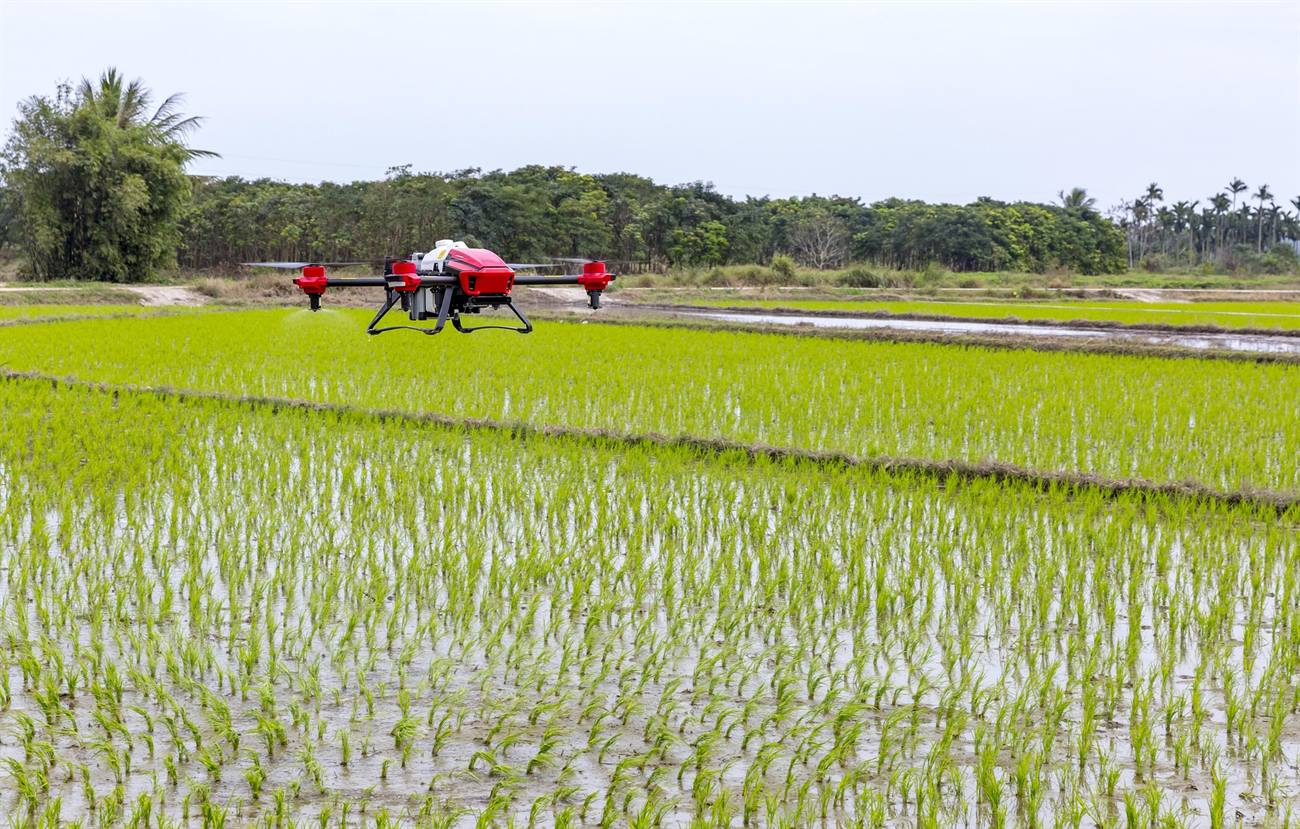
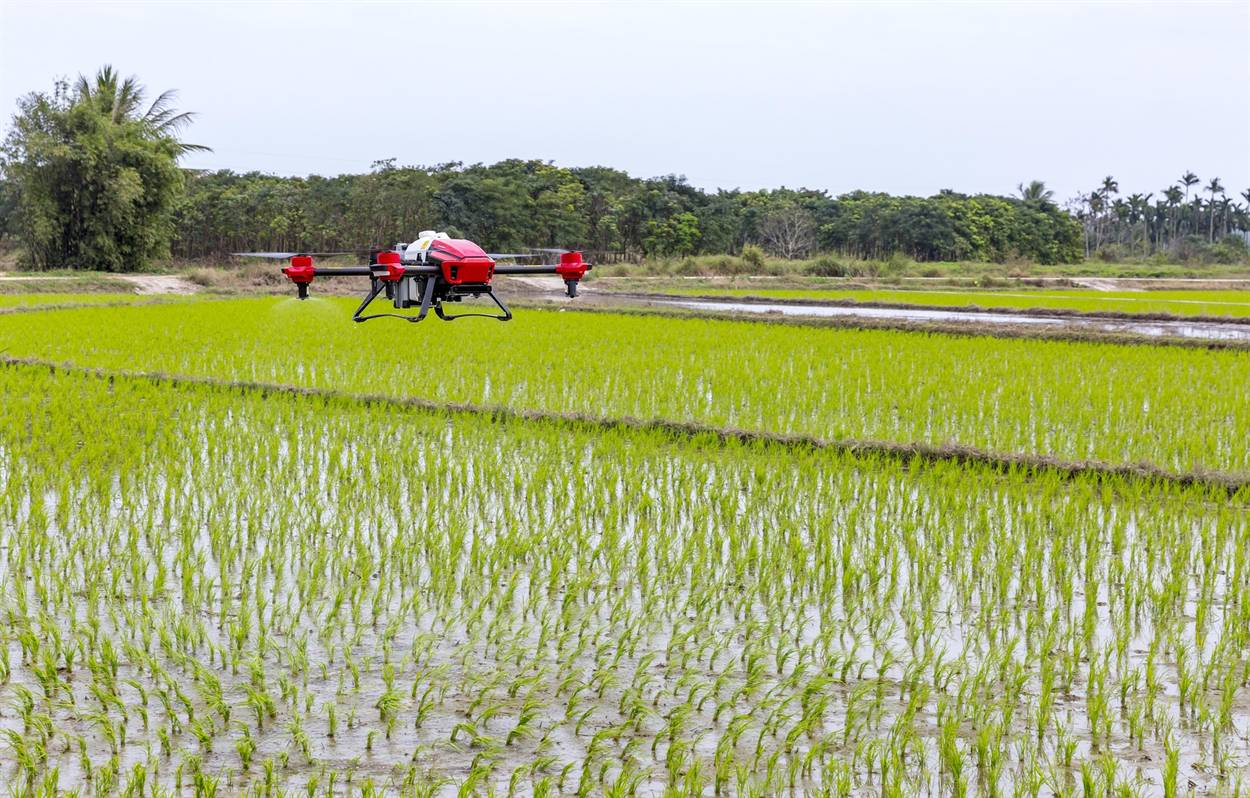
Give the helicopter and fire engine sections their own subject
Leo supplied a helicopter photo and a fire engine photo. Both now sit in the
section they belong to, and the two images they displaced moved rather than
being dropped:

  hero                              smouldering ground   unchanged
  Twenty hectares to four hundred   night fire front     moved here
  Fire engine                       fire engine          new
  Helicopter                        rescue helicopter    new
  Drone                             spraying drone       unchanged
  The gap                           crew at the fire     unchanged
  What this means                   firefighter on foot  moved here

The two that moved got new captions that fit where they now are. The night
fire front closes the twenty-to-four-hundred point: by the time it looks like
that, the decisions that mattered were made hours ago. The firefighter on foot
closes the article on "the same people, doing the same job", which is the last
line of the piece.

Both new photographs are captioned for what they actually show, because both
are wrong in a way a fire officer would notice in a second. The helicopter is a
Czech Air Force PZL W-3 on a winch rescue exercise, tagged by the photographer
as a rescue demo, and it is not carrying water. The fire engine is American
apparatus, a Pierce pumper and a Ford ambulance on a US road, not a German
appliance. Saying so costs nothing. Being caught not saying so would cost the
whole article.
[…]

diff --git a/public/blog/helicopter-air-tanker-fire-engine-drone.html b/public/blog/helicopter-air-tanker-fire-engine-drone.html
@@ -163,7 +163,7 @@
     <p class="byline">18 August 2026 · Averium Dynamics UG, Berlin</p>
 
     <figure>
-      <img src="/blog/img/smouldering-ground.jpg" width="1400" height="888"
+      <img src="/blog/img/smouldering-ground.jpg" width="1300" height="824"
            alt="Smoke rising from burnt ground in a cleared conifer forest, with stumps and
                 branches in the foreground."
            decoding="async"/>
@@ -181,6 +181,17 @@
     <p>As far as we can tell nobody did anything wrong. Hundreds of people worked on it. The
       German air force flew two heavy helicopters over it and dropped around 1.58 million litres
       in three days.<sup>[3]</sup> It still went from 20 to 400.</p>
+
+    <figure>
+      <img src="/blog/img/fire-front-night.jpg" width="1600" height="1067"
+           alt="A fire burning along a forested ridge at dusk, its light reflected in the water
+                in the foreground."
+           loading="lazy" decoding="async"/>
+      <figcaption>By the time a fire looks like this, the decisions that mattered were made
+        hours ago.
+        <span class="note">Stock photograph. Not the Müritz fire, and not our own image.</span>
+      </figcaption>
+    </figure>
 
     <p>That pair of numbers is the whole argument. The fire was small once. What happens while
       it is still small decides how it ends. Everything after that is clearing up.</p>
@@ -211,12 +222,12 @@
     <h2>Fire engine</h2>
 
     <figure>
-      <img src="/blog/img/crew-on-the-ground.jpg" width="1400" height="933"
-           alt="A firefighter in helmet and protective clothing beating out flames in a burning
-                field, with smoke behind."
+      <img src="/blog/img/fire-engine.jpg" width="1250" height="938"
+           alt="A fire engine and an ambulance driving along a rural road."
            loading="lazy" decoding="async"/>
-      <figcaption>Most of the work is still done at walking pace, by hand.
-        <span class="note">Stock photograph. Not the Müritz fire, and not our own image.</span>
+      <figcaption>Everything about this works, right up to the point where the road stops.
+        <span class="note">Stock photograph. American apparatus, not a German appliance, and
+          not ours.</span>
       </figcaption>
     </figure>
 
@@ -242,12 +253,13 @@
     <h2>Helicopter</h2>
 
     <figure>
-      <img src="/blog/img/fire-front-night.jpg" width="1600" height="1067"
-           alt="A fire burning along a forested ridge at dusk, its light reflected in the water
-                in the foreground."
+      <img src="/blog/img/helicopter.jpg" width="1250" height="833"
+           alt="A red and white rescue helicopter hovering low over a meadow with forest and
+                cliffs behind, two crew on the ground below the winch line."
            loading="lazy" decoding="async"/>
-      <figcaption>Once it looks like this, the first hour is long gone.
-        <span class="note">Stock photograph. Not the Müritz fire, and not our own image.</span>
+      <figcaption>Minutes, over ground a vehicle would need hours to reach.
+        <span class="note">Stock photograph. A Czech Air Force rescue helicopter on a winch
+          exercise, not a water drop, and not the Müritz fire.</span>
       </figcaption>
     </figure>
 
@@ -277,7 +289,7 @@
     <h2>Drone</h2>
 
     <figure>
-      <img src="/blog/img/drone-in-flight.jpg" width="1300" height="829"
+      <img src="/blog/img/drone-in-flight.jpg" width="1250" height="798"
            alt="A large multi-rotor drone with a tank and spray booms hovering low over a
                 flooded field."
            loading="lazy" decoding="async"/>
@@ -360,6 +372,16 @@
       in the first few minutes, because there is no road or because nobody is allowed. After
       that it is the same job it has always been, done by the same people.</p>
 
+    <figure>
+      <img src="/blog/img/crew-on-the-ground.jpg" width="1400" height="933"
+           alt="A firefighter in helmet and protective clothing beating out flames in a burning
+                field, with smoke behind."
+           loading="lazy" decoding="async"/>
+      <figcaption>The same people, doing the same job.
+        <span class="note">Stock photograph. Not the Müritz fire, and not our own image.</span>
+      </figcaption>
+    </figure>
+
     <div class="cta">
       <h3>If you want to look at your own ground</h3>
       <p>We put a small size-up tool online. Mark a spot on the map and it gives you the slope,
@@ -391,18 +413,22 @@
       <p style="margin-top:1rem">The two quotes are from conversations we had ourselves and are
         paraphrased from memory. They are not publicly checkable, and we would rather say that
         than pretend otherwise.</p>
-      <p>All five photographs are from Pixabay, used under the
+      <p>All seven photographs are from Pixabay, used under the
         <a href="https://pixabay.com/service/license-summary/">Pixabay Content Licence</a>:
         <a href="https://pixabay.com/photos/the-forest-fell-fire-smoke-tree-2370996/">The Forest
         Fell</a> by ojkumena,
-        <a href="https://pixabay.com/photos/fire-6706674/">Fire Field Firefighter</a> by fish96,
         <a href="https://pixabay.com/photos/wildfire-bushfire-fire-forest-4755030/">Wildfire
         Bushfire Fire</a> by sippakorn,
+        <a href="https://pixabay.com/photos/emergency-vehicles-2770875/">Emergency Vehicles
+        Ambulance</a> by LindaJM,
+        <a href="https://pixabay.com/photos/pzl-w-3-soko-8274644/">Pzl W-3 Sokół Czech Air
+        Force</a> by NetHawk,
         <a href="https://pixabay.com/photos/plant-protection-drone-3802183/">Plant Protection
-        Drone</a> by viya0414, and
-        <a href="https://pixabay.com/photos/fire-5604682/">Fire Flames Trees</a> by ELG21. That
-        licence does not ask for credit. We are giving it anyway. None of them shows the Müritz
-        fire, none was taken by us, and none shows our equipment.</p>
+        Drone</a> by viya0414,
+        <a href="https://pixabay.com/photos/fire-5604682/">Fire Flames Trees</a> by ELG21, and
+        <a href="https://pixabay.com/photos/fire-6706674/">Fire Field Firefighter</a> by fish96.
+        That licence does not ask for credit. We are giving it anyway. None of them shows the
+        Müritz fire, none was taken by us, and none shows our equipment.</p>
     </div>
 
     <div class="supporters">
